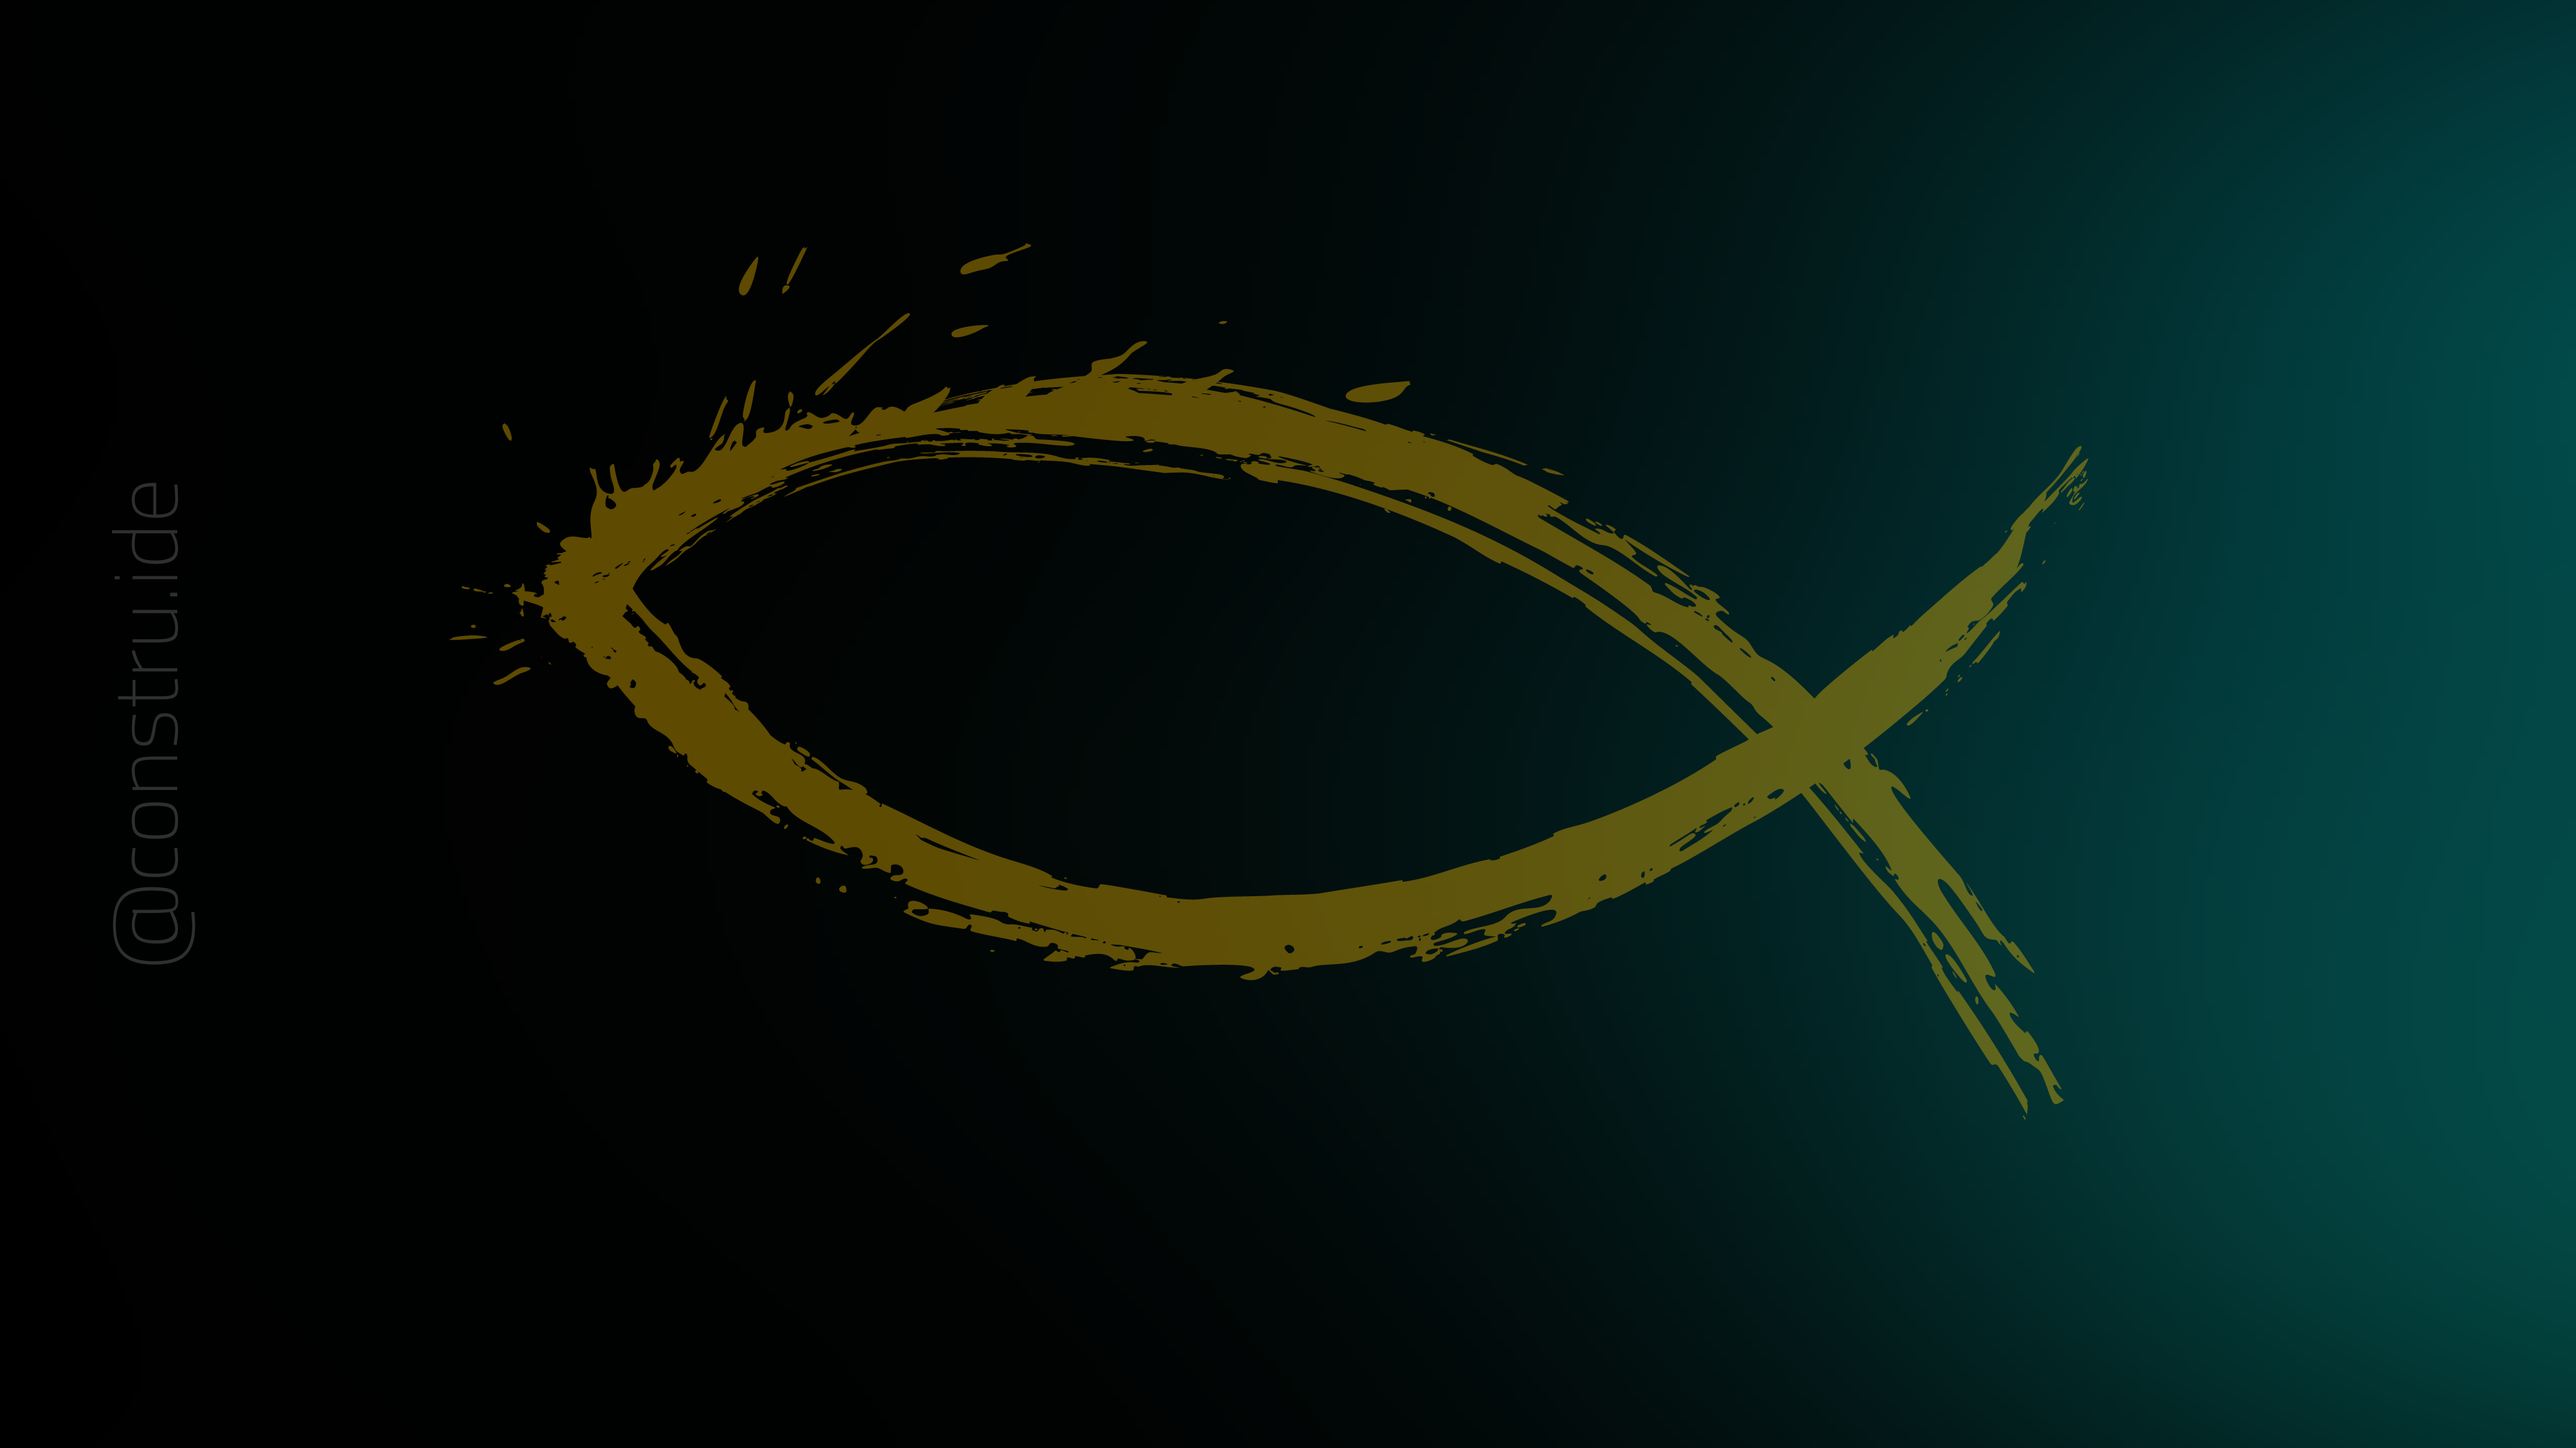
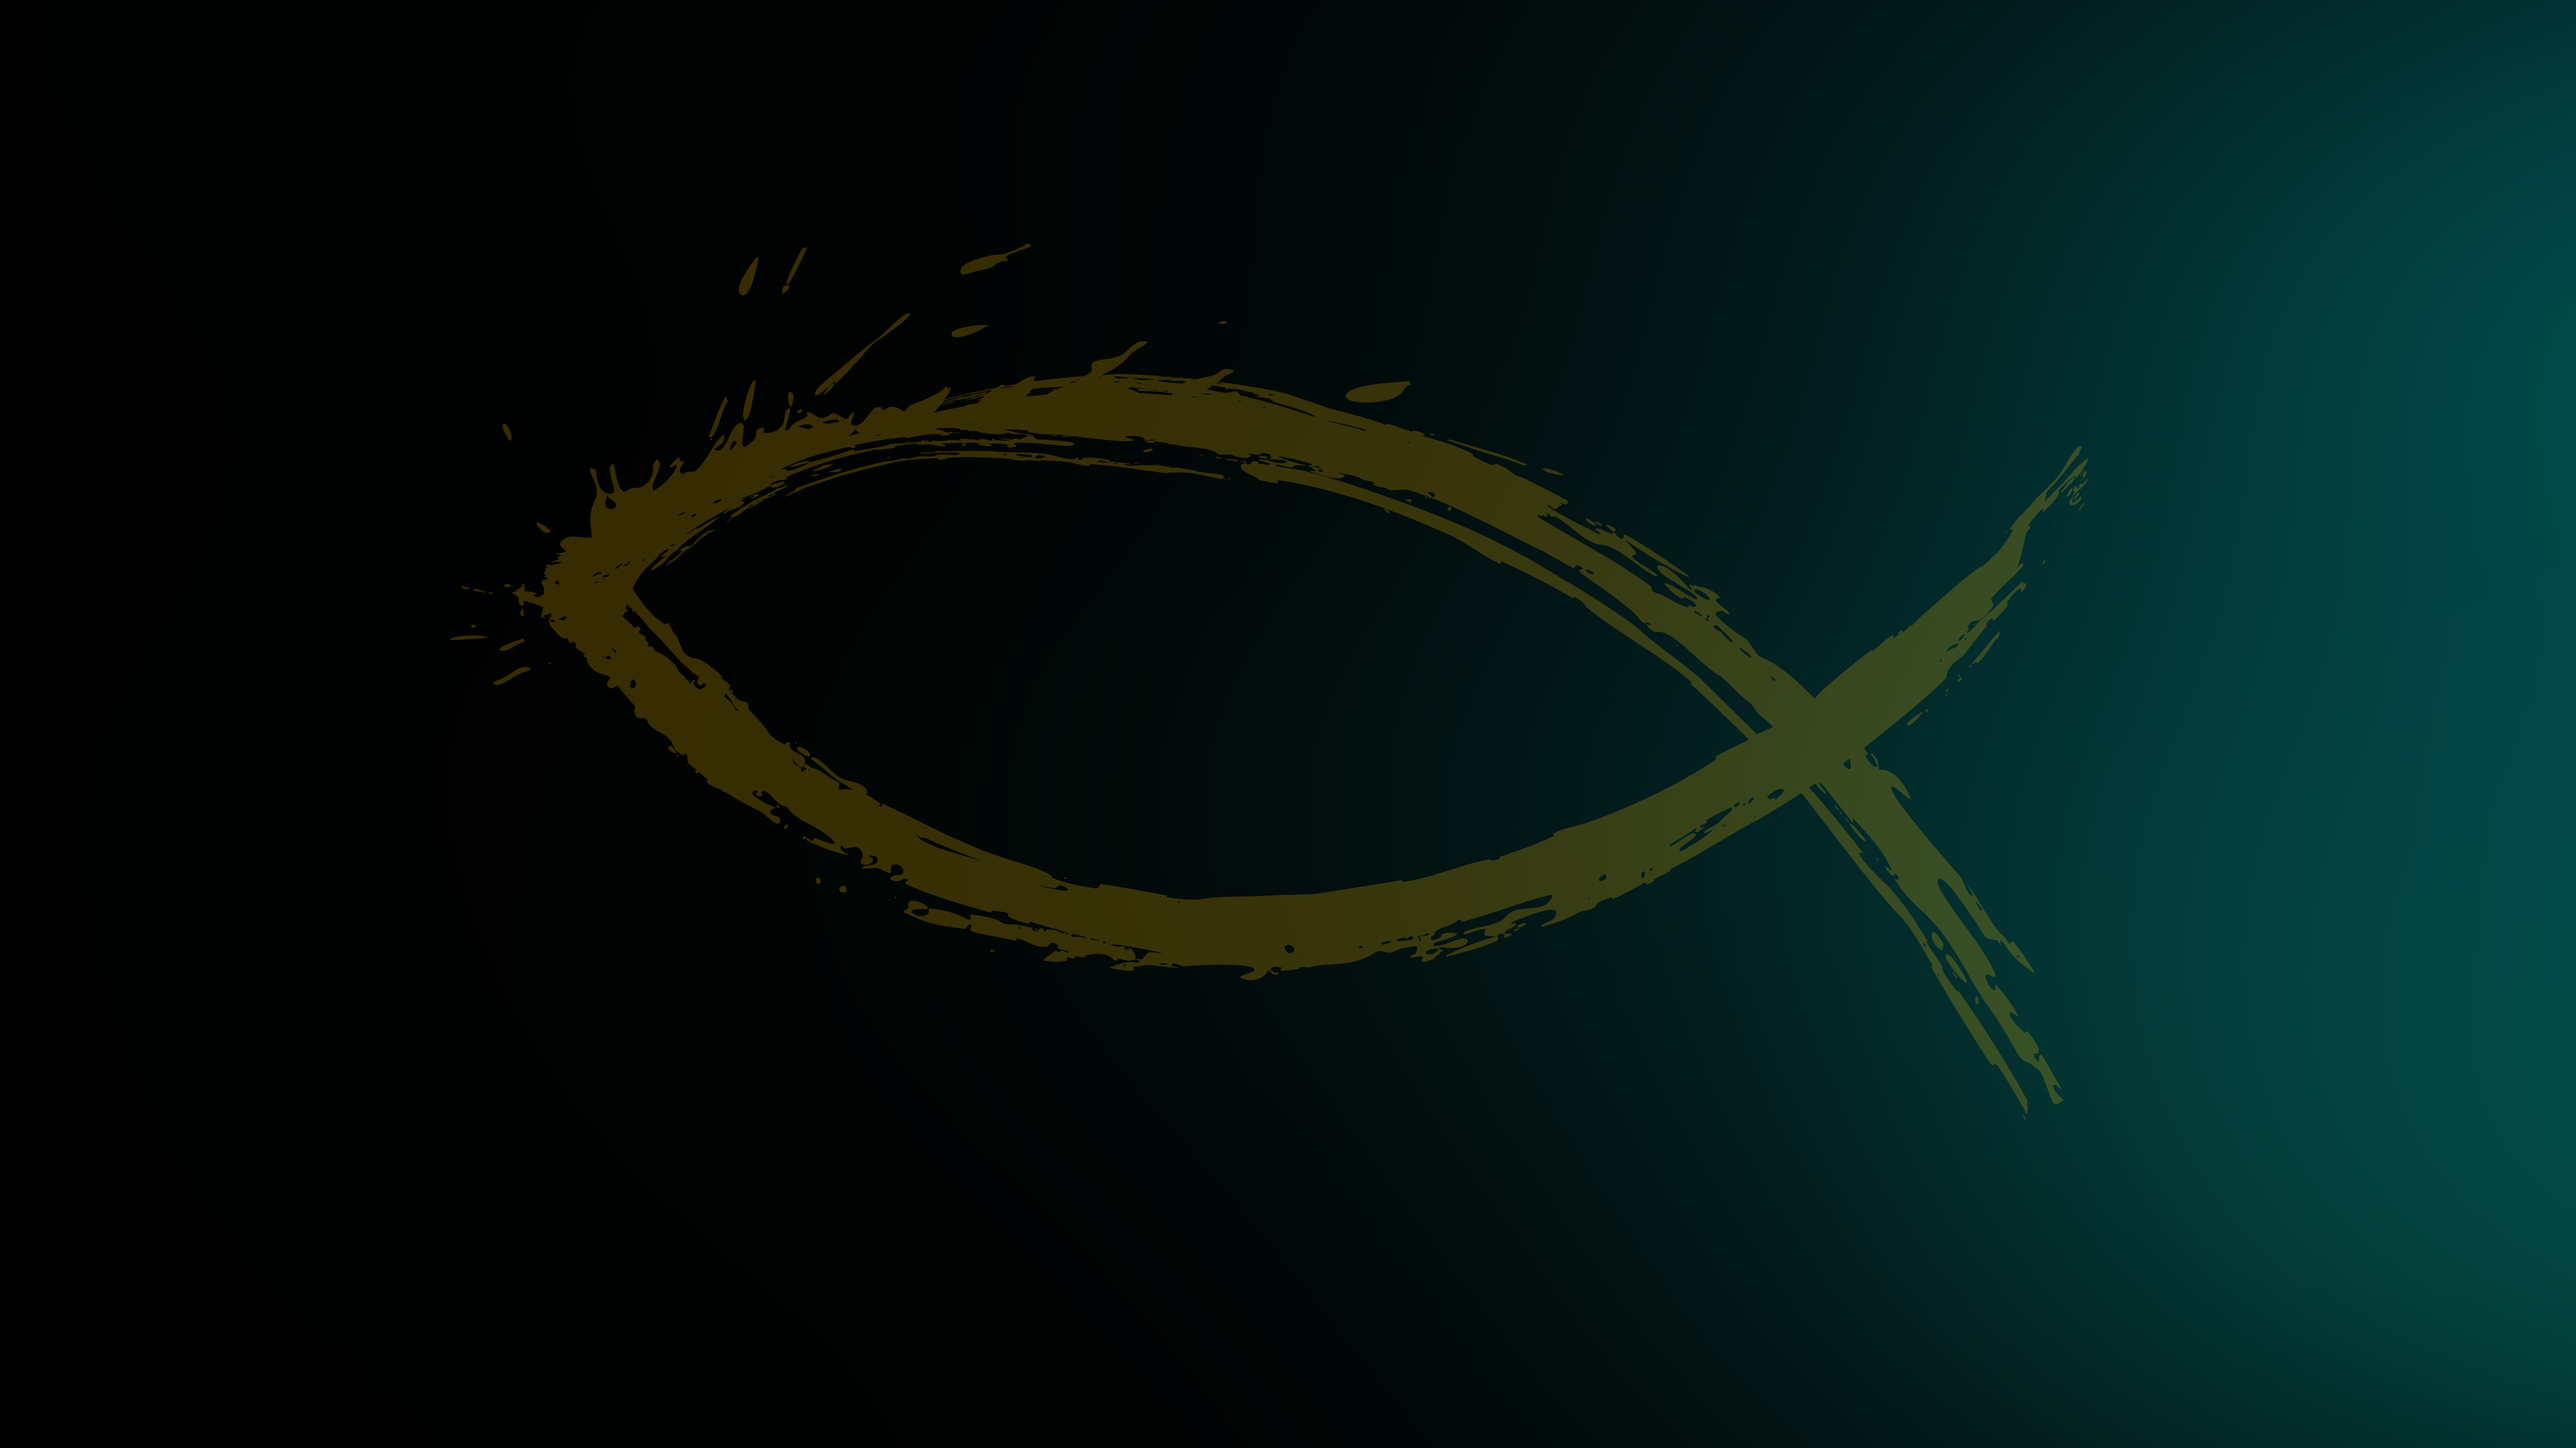
MVP pronto

diff --git a/src/Pages/Verses/index.js b/src/Pages/Verses/index.js
@@ -1,5 +1,8 @@
 import React, { Component } from 'react'
 import './index.css'
+import { MdWest } from "react-icons/md";
+import { Link } from 'react-router-dom';
+
 
 
 class Verses extends Component {
@@ -50,14 +53,14 @@ class Verses extends Component {
     render() {
         return (
             <>
-                <div className='container'>
-                    <div className='sociais'>
-                        <a className='insta' href="https://www.instagram.com/constru.ide/" target="_blank" rel="noreferrer">@construide</a>
-                    </div>
+                <div>
+                    <Link to='/'><MdWest color='#FFF' size={30} className='icon' /></Link>
+                </div>
 
+                <div className='container'>
                     <h2 className='verse'>{this.state.textoVersiculo.texto}</h2>
                     <h3 className='reference'>{this.state.textoVersiculo.referencia}</h3>
-                    <Botao nome="Gerar Outro Versiculo" acaoBtn={this.geraVersiculo} />
+                    <Botao nome="VERSÍCULO DO DIA" acaoBtn={this.geraVersiculo} />
                 </div>
             </>
         )

diff --git a/src/Pages/Home/index.js b/src/Pages/Home/index.js
@@ -1,0 +1,41 @@
+import React, { Component } from 'react'
+import './index.css'
+import { Link } from 'react-router-dom'
+import { BsInstagram } from "react-icons/bs";
+
+
+class Home extends Component {
+    render() {
+        return (
+            <>
+                <div className='container'>
+                    <div className='sociais'>
+                        <a className='insta' href="https://www.instagram.com/constru.ide/" target="_blank" rel="noreferrer"><BsInstagram size={40} /></a>
+                    </div>
+
+
+                    <div className='middle'>
+                        <h1 className='title'>BÍBLIA</h1>
+                        <h2 className='subtitle'>TODOS OS DIAS</h2>
+                        <Botao nome='CLIQUE AQUI' />
+                    </div>
+                </div>
+
+
+            </>
+        )
+    }
+}
+
+
+class Botao extends Component {
+    render() {
+        return (
+            <div>
+                <Link to='/verses'><button className='generator'>{this.props.nome}</button></Link>
+            </div>
+        )
+    }
+}
+
+export default Home;

diff --git a/src/Pages/Verses/index.css b/src/Pages/Verses/index.css
@@ -2,7 +2,7 @@
     background-image: url('../../Assets/come2.png');
     background-repeat: no-repeat;
     background-size: cover;
-    height: 597px;
+    height: 570px;
     margin: 0;
     border: 0;
     box-sizing: border-box;
@@ -38,7 +38,6 @@
 }
 
 .insta {
-    transform: rotate(90deg);
     margin-bottom: -190px;
     text-decoration: none;
     color: #fff;
@@ -49,4 +48,22 @@
 
 .insta:hover {
     opacity: 0.8;
+    color: #F6BE00;
+}
+
+.generator {
+    background-color: #03403f;
+    border: none;
+    border-radius: 10px;
+    font-size: 15px;
+    font-weight: 700;
+    color: #fff;
+    font-family: 'Cairo', sans-serif;
+    cursor: pointer;
+}
+
+.icon {
+    margin-left: 25px;
+    margin-top: 15px;
+    margin-bottom: -50px;
 }

diff --git a/src/Pages/Home/index.css b/src/Pages/Home/index.css
@@ -1,3 +1,28 @@
-background-image: url('./Assets/come.png');
-background-repeat: no-repeat;
-background-size: cover;
+.title {
+    font-size: 160px;
+    color: #FFF;
+    font-family: 'Cairo', sans-serif;
+    margin-bottom: -40px;
+    margin-top: -15px;
+}
+
+.subtitle {
+    font-size: 90px;
+    color: #f6be00;
+    font-family: 'Cairo', sans-serif;
+    margin-top: -90px;
+    margin-bottom: 15px;
+}
+
+.generator {
+    margin-top: -20px;
+}
+
+.sociais {
+    display: flex;
+    margin-right: 2310px;
+}
+
+.middle {
+    text-align: center;
+}

diff --git a/src/index.css b/src/index.css
@@ -3,11 +3,12 @@ body {
   font-family: 'Cairo', sans-serif;
   -webkit-font-smoothing: antialiased;
   -moz-osx-font-smoothing: grayscale;
-  background-image: url('./Assets/come.png');
+  background-image: url('./Assets/come2.png');
   background-repeat: no-repeat;
   background-size: cover;
   width: auto;
   height: 597px;
+
 }
 
 code {
